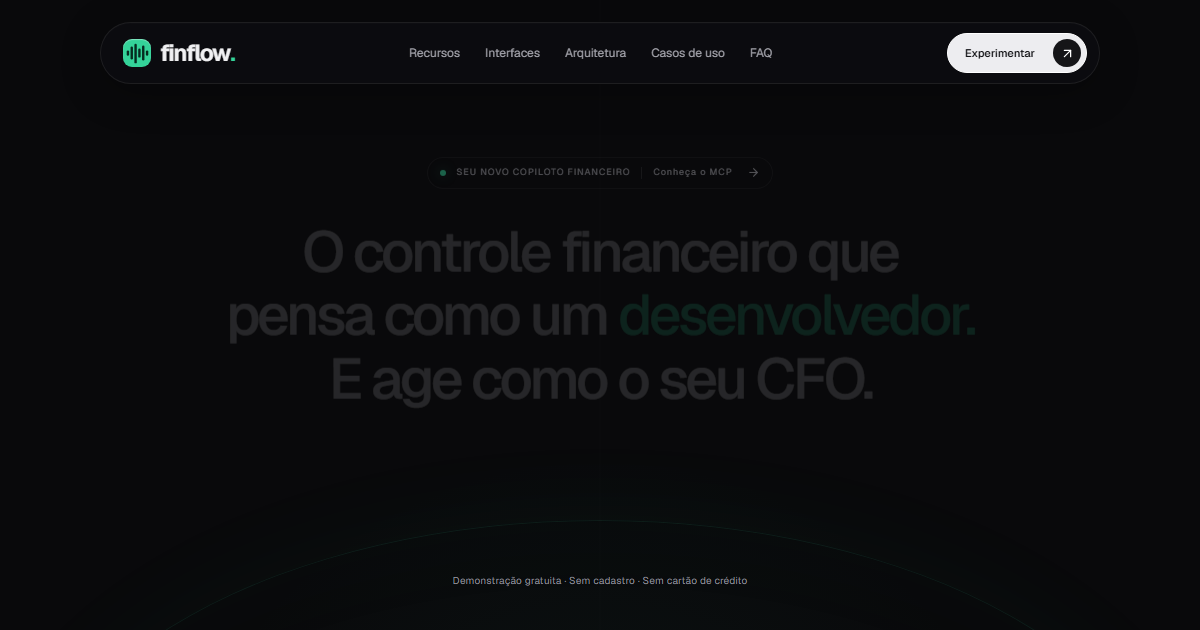
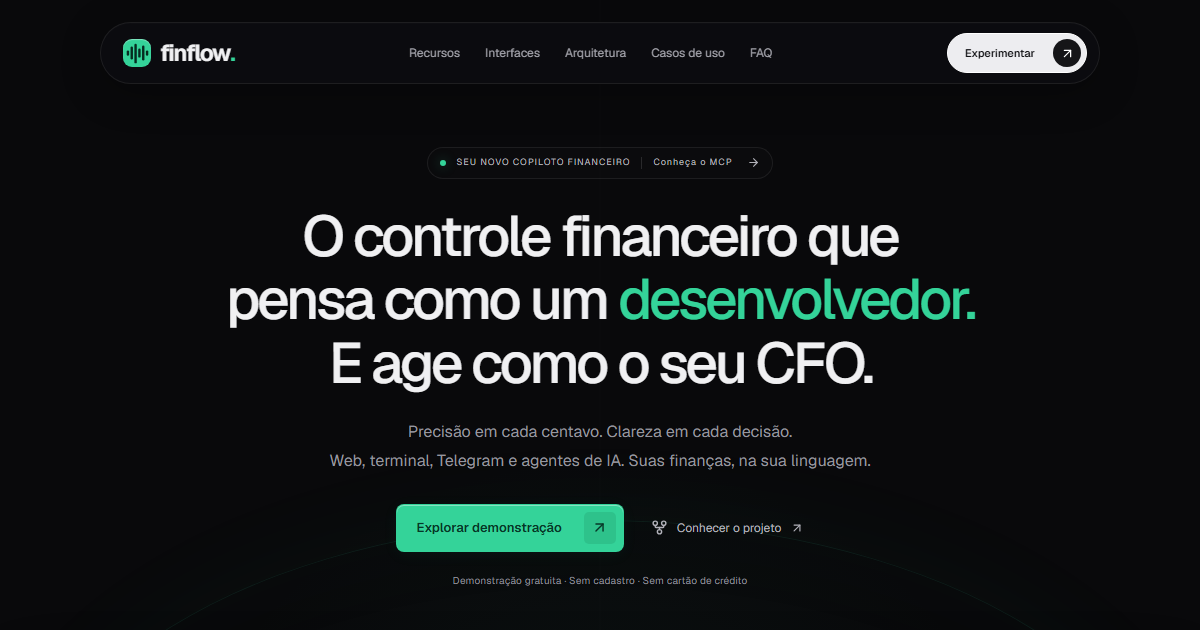
fix: refine mobile typography and verify production experience

diff --git a/tests/landing.spec.ts b/tests/landing.spec.ts
@@ -36,7 +36,7 @@ test.describe('landing responsiva', () => {
       page.on('pageerror', (error) => jsErrors.push(error.message))
       await page.setViewportSize({ width: viewport.width, height: viewport.height })
       await page.goto('/')
-      await expect(page.getByRole('heading', { level: 1 })).toContainText('O controle financeiro')
+      await expect(page.getByRole('heading', { level: 1 })).toHaveText('O controle financeiro que pensa como um desenvolvedor. E age como o seu CFO.')
       await expect(page.locator('html')).toHaveClass(/motion-ready/)
       await scrollFullPage(page)
       await page.waitForFunction(() => Array.from(document.images).every((image) => image.complete), null, { timeout: 8000 }).catch(() => {})

diff --git a/src/App.tsx b/src/App.tsx
@@ -547,13 +547,13 @@ function Hero() {
           <ArrowRight size={13} />
         </a>
         <h1>
-          O controle financeiro que
+          O controle financeiro que{" "}
           <br className="desktop-break" />
-          pensa como um <span>desenvolvedor.</span>
+          pensa como um <span>desenvolvedor.</span>{" "}
           <br className="desktop-break" />E age como o seu CFO.
         </h1>
         <p>
-          Precisão em cada centavo. Clareza em cada decisão.
+          Precisão em cada centavo. Clareza em cada decisão.{" "}
           <br />
           Web, terminal, Telegram e agentes de IA. Suas finanças, na sua
           linguagem.

diff --git a/src/index.css b/src/index.css
@@ -2637,8 +2637,8 @@ td > svg {
     margin-left: 0;
   }
   .hero h1 {
-    font-size: 39px;
-    letter-spacing: -1.9px;
+    font-size: 35px;
+    letter-spacing: -1.6px;
     line-height: 1.14;
     margin: 26px 0 21px;
   }

diff --git a/README.md b/README.md
@@ -35,6 +35,7 @@ pnpm dev
 pnpm lint
 pnpm build
 pnpm test:e2e
+node scripts/verify-production.mjs
 ```
 
 Os testes usam Chromium com Playwright e axe. Na primeira instalação, se necessário, execute `pnpm exec playwright install chromium`. Os relatórios e screenshots ficam em `test-results/`, ignorado pelo Git.
